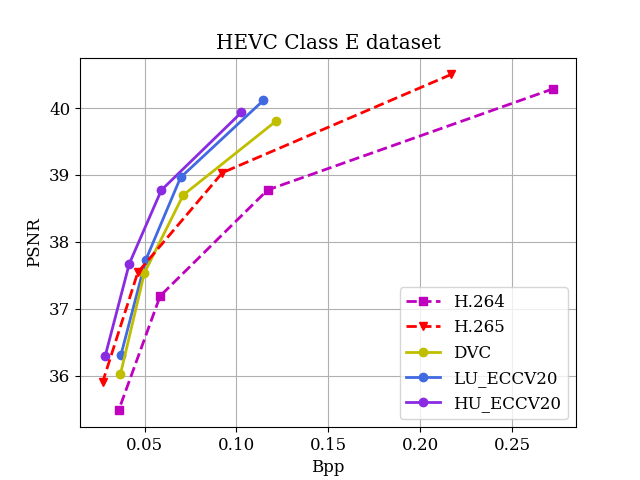
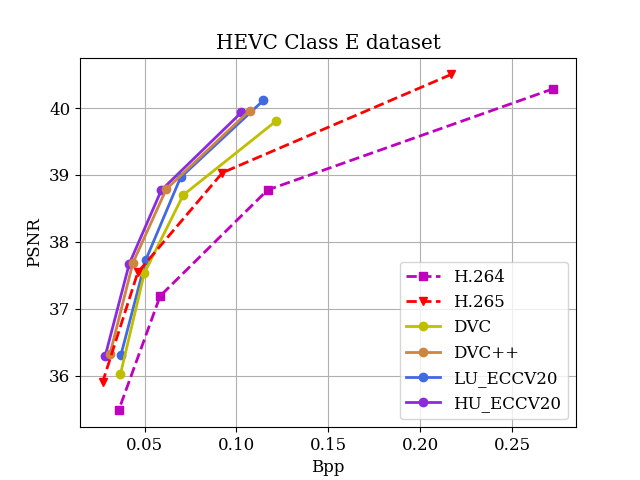
Update DVC++

diff --git a/Benchmark/draw_HEVC.py b/Benchmark/draw_HEVC.py
@@ -33,6 +33,10 @@ def drawhevc(hclass):
         psnr = [31.82619106, 33.0220837, 34.10751308, 35.10115456]
         DVC, = plt.plot(bpp, psnr, "y-o", linewidth=LineWidth, label='DVC')
 
+        bpp = [0.2824179, 0.15401706, 0.09166346, 0.06412788]
+        psnr = [35.32781542, 34.2566437, 33.20279178, 32.05932868]
+        DVCp, = plt.plot(bpp, psnr, "y-o", color="peru", linewidth=LineWidth, label='DVC++')
+
         bpp = [0.569167464, 0.219282161, 0.110183846, 0.065360897]
         psnr = [35.79301018, 34.03927013, 32.59008599, 31.1074001]
         msssim = [0.977265628, 0.967603596, 0.957326897, 0.94278379]
@@ -60,6 +64,10 @@ def drawhevc(hclass):
         bpp = [0.133924025, 0.19340295, 0.272746925, 0.4122508326]
         psnr = [28.767909, 29.95094243, 31.25051302, 32.51022528]
         DVC, = plt.plot(bpp, psnr, "y-o", linewidth=LineWidth, label='DVC')
+
+        bpp = [0.4111753326,  0.2770532, 0.185561475, 0.12688355]
+        psnr = [33.89443968, 32.16821025, 30.68711723, 29.37904568]
+        DVCp, = plt.plot(bpp, psnr, "y-o", color="peru", linewidth=LineWidth, label='DVC++')
 
         bpp = [0.576088116, 0.328202857, 0.193107239, 0.116934184]
         psnr = [34.63515097, 32.32511581, 30.15303183, 28.10807277]
@@ -90,6 +98,10 @@ def drawhevc(hclass):
         psnr = [28.41229473, 29.72853673, 31.1727661, 32.53451213]
         DVC, = plt.plot(bpp, psnr, "y-o", linewidth=LineWidth, label='DVC')
 
+        bpp = [0.4087568561,0.281171025, 0.199286125,0.13588435]
+        psnr = [33.87303353,31.87365235, 30.47633143,29.02572843]
+        DVCp, = plt.plot(bpp, psnr, "y-o", color="peru", linewidth=LineWidth, label='DVC++')
+
         bpp = [0.62866645, 0.369079861, 0.216769748, 0.130388726]
         psnr = [34.8324324, 32.26764653, 29.94494703, 27.82689033]
         msssim = [0.987974466, 0.980878777, 0.969883378, 0.952591233]
@@ -115,6 +127,10 @@ def drawhevc(hclass):
         psnr = [36.020002, 37.53390843, 38.70012267, 39.80463083]
         DVC, = plt.plot(bpp, psnr, "y-o", linewidth=LineWidth, label='DVC')
 
+        bpp = [0.1071702, 0.06180936667, 0.04365763333, 0.03117206667]
+        psnr = [39.96223793, 38.78827227, 37.68675003, 36.3244915]
+        DVCp, = plt.plot(bpp, psnr, "y-o", color="peru", linewidth=LineWidth, label='DVC++')
+
         bpp = [0.272495739, 0.116933239, 0.058484612, 0.035880386]
         psnr = [40.28897112, 38.7756175, 37.19223474, 35.48255472]
         msssim = [0.988984555, 0.986157917, 0.982596303, 0.977072748]
@@ -132,9 +148,9 @@ def drawhevc(hclass):
     if not os.path.exists(prefix):
         os.makedirs(prefix)    
     if hclass != 'E':
-        plt.legend(handles=[h264, h265, DVC, RY, LU, RaFC], loc=4)
+        plt.legend(handles=[h264, h265, DVC, DVCp, RY, LU, RaFC], loc=4)
     else:
-        plt.legend(handles=[h264, h265, DVC, LU, RaFC], loc=4)
+        plt.legend(handles=[h264, h265, DVC, DVCp, LU, RaFC], loc=4)
 
     plt.grid()
     plt.xlabel('Bpp')
@@ -164,6 +180,10 @@ def drawhevc(hclass):
         msssim = [0.94666318, 0.95921518, 0.96812108, 0.97383252]
         bpp = [0.07658514, 0.11616374, 0.16643274, 0.2939271]
         DVC, = plt.plot(bpp, msssim, "y-p", linewidth=LineWidth, label='DVC')
+
+        bpp = [0.2824179, 0.15401706, 0.09166346, 0.06412788]
+        msssim = [0.97436334, 0.96841286, 0.960519, 0.94919218]
+        DVCp, = plt.plot(bpp, msssim, "y-o", color="peru", linewidth=LineWidth, label='DVC++')
 
         bpp = [0.569167464, 0.219282161, 0.110183846, 0.065360897]
         psnr = [35.79301018, 34.03927013, 32.59008599, 31.1074001]
@@ -197,6 +217,10 @@ def drawhevc(hclass):
         msssim = [0.9523096, 0.96620995, 0.9763428823, 0.981115925]
         DVC, = plt.plot(bpp, msssim, "y-o", linewidth=LineWidth, label='DVC')
 
+        bpp = [0.4111753326,  0.2770532, 0.185561475, 0.12688355]
+        msssim = [0.9837059, 0.97858455, 0.96894595, 0.955701925]
+        DVCp, = plt.plot(bpp, msssim, "y-o", color="peru", linewidth=LineWidth, label='DVC++')
+
         bpp = [0.576088116, 0.328202857, 0.193107239, 0.116934184]
         psnr = [34.63515097, 32.32511581, 30.15303183, 28.10807277]
         msssim = [0.983930296, 0.975657708, 0.963020551, 0.943658353]
@@ -227,6 +251,10 @@ def drawhevc(hclass):
         msssim = [0.95808245, 0.971744025, 0.981360625, 0.9863982]
         DVC, = plt.plot(bpp, msssim, "y-o", linewidth=LineWidth, label='DVC')
 
+        bpp = [0.4087568561,0.281171025, 0.199286125,0.13588435]
+        msssim = [0.98832555, 0.982999975, 0.974272125, 0.961972025]
+        DVCp, = plt.plot(bpp, msssim, "y-o", color="peru", linewidth=LineWidth, label='DVC++')
+
         bpp = [0.62866645, 0.369079861, 0.216769748, 0.130388726]
         psnr = [34.8324324, 32.26764653, 29.94494703, 27.82689033]
         msssim = [0.987974466, 0.980878777, 0.969883378, 0.952591233]
@@ -253,6 +281,10 @@ def drawhevc(hclass):
         msssim = [0.9768797, 0.9829584333, 0.9865011667, 0.9887121667]
         DVC, = plt.plot(bpp, msssim, "y-o", linewidth=LineWidth, label='DVC')
 
+        bpp = [0.1071702, 0.06180936667, 0.04365763333, 0.03117206667]
+        msssim = [0.9886938667, 0.9864564667, 0.9832413333, 0.9778337]
+        DVCp, = plt.plot(bpp, msssim, "y-o", color="peru", linewidth=LineWidth, label='DVC++')
+
         bpp = [0.272495739, 0.116933239, 0.058484612, 0.035880386]
         psnr = [40.28897112, 38.7756175, 37.19223474, 35.48255472]
         msssim = [0.988984555, 0.986157917, 0.982596303, 0.977072748]
@@ -268,9 +300,9 @@ def drawhevc(hclass):
         
     savepathmsssim = prefix + '/' + 'HEVCClass_' + hclass + '_msssim'# + '.eps'
     if hclass != 'E':
-        plt.legend(handles=[h264, h265, DVC, RY, LU, RaFC], loc=4)
+        plt.legend(handles=[h264, h265, DVC, DVCp, RY, LU, RaFC], loc=4)
     else:
-        plt.legend(handles=[h264, h265, DVC, LU, RaFC], loc=4)
+        plt.legend(handles=[h264, h265, DVC, DVCp, LU, RaFC], loc=4)
 
     plt.grid()
     plt.xlabel('Bpp')

diff --git a/Benchmark/draw_uvg.py b/Benchmark/draw_uvg.py
@@ -43,6 +43,9 @@ iccv, = plt.plot(bpp, psnr, "c-*", linewidth=LineWidth, label='AD_ICCV19')
 bpp, psnr, msssim = [0.185334726, 0.108594607, 0.076628071, 0.06013501], [37.69306179, 36.68785979, 35.52100014, 34.54747739], [0.971436012, 0.96574275, 0.957191524, 0.949676821]
 DVC, = plt.plot(bpp, psnr, "y-o", linewidth=LineWidth, label='DVC')
 
+bpp, psnr, msssim = [0.1580652024, 0.09510494048, 0.06334845238, 0.05001147619], [37.83633036, 36.77129217, 35.7142323, 35.03949596], [0.971793119, 0.9658603452, 0.9588654881, 0.9534102738]
+DVCp, = plt.plot(bpp, psnr, "y-o", color="peru", linewidth=LineWidth, label='DVC++')
+
 # Ours default
 bpp, psnr, msssim = [0.360398059, 0.148765645, 0.076027148, 0.044918456], [38.17135327, 36.64284159, 35.23609537, 33.81775541], [0.978673172, 0.967889817, 0.95755343, 0.945528742]
 h264, = plt.plot(bpp, psnr, "m--s", linewidth=LineWidth, label='H.264')
@@ -54,7 +57,7 @@ savepathpsnr = prefix + '/UVG_psnr'
 print(prefix)
 if not os.path.exists(prefix):
     os.makedirs(prefix)
-plt.legend(handles=[h264, h265, DVC, eccv, iccv, EA, LU, rafc], loc=4)
+plt.legend(handles=[h264, h265, DVC, DVCp, eccv, iccv, EA, LU, rafc], loc=4)
 plt.grid()
 plt.xlabel('Bpp')
 plt.ylabel('PSNR')
@@ -94,6 +97,8 @@ iccv, = plt.plot(bpp, msssim, "c-*", linewidth=LineWidth, label='AD_ICCV19')
 bpp, psnr, msssim = [0.185334726, 0.108594607, 0.076628071, 0.06013501], [37.69306179, 36.68785979, 35.52100014, 34.54747739], [0.971436012, 0.96574275, 0.957191524, 0.949676821]
 DVC, = plt.plot(bpp, msssim, "y-o", linewidth=LineWidth, label='DVC')
 
+bpp, psnr, msssim = [0.1580652024, 0.09510494048, 0.06334845238, 0.05001147619], [37.83633036, 36.77129217, 35.7142323, 35.03949596], [0.971793119, 0.9658603452, 0.9588654881, 0.9534102738]
+DVCp, = plt.plot(bpp, msssim, "y-o", color="peru", linewidth=LineWidth, label='DVC++')
 
 bpp, msssim = [0.25601, 0.18540, 0.11757, 0.06162, 0.04352, 0.03561], [0.97627, 0.97311, 0.96770, 0.95592, 0.94839, 0.94459]
 ha_iccv, = plt.plot(bpp, msssim, "g-o", color="lime", linewidth=LineWidth, label='AH_ICCV19')
@@ -106,7 +111,7 @@ h265, = plt.plot(bpp, msssim, "r--v", linewidth=LineWidth, label='H.265')
 
 
 savepathmsssim = prefix + '/' + 'UVG_msssim'# + '.eps'
-plt.legend(handles=[h264, h265, DVC, eccv, ha_iccv, iccv, EA, LU, rafc], loc=4)
+plt.legend(handles=[h264, h265, DVC, DVCp, eccv, ha_iccv, iccv, EA, LU, rafc], loc=4)
 plt.grid()
 plt.xlabel('Bpp')
 plt.ylabel('MS-SSIM')

diff --git a/Benchmark/README.md b/Benchmark/README.md
@@ -4,6 +4,7 @@
 ## Methods
 - <font color="#0343df">CW_ECCV18</font> : [Video Compression through Image Interpolation](https://arxiv.org/abs/1804.06919)
 - <font color="#c2bd1c">DVC</font> : [DVC: An End-to-end Deep Video Compression Framework](https://arxiv.org/abs/1812.00101)
+- <font color="#CD853F">DVC++</font> : [An End-to-End Learning Framework for Video Compression](https://ieeexplore.ieee.org/document/9072487)
 - <font color="#00bfbf">AD_ICCV19</font> : [Neural Inter-Frame Compression for Video Coding](https://openaccess.thecvf.com/content_ICCV_2019/papers/Djelouah_Neural_Inter-Frame_Compression_for_Video_Coding_ICCV_2019_paper.pdf)
 - <font color="#00FF00">AH_ICCV19</font> : [Video CompressionWith Rate-Distortion Autoencoders](https://arxiv.org/abs/1908.05717v2)
 - <font color="#008000">EA_CVPR20</font> : [Scale-space Flow for End-to-end Optimized Video Compression](https://openaccess.thecvf.com/content_CVPR_2020/papers/Agustsson_Scale-Space_Flow_for_End-to-End_Optimized_Video_Compression_CVPR_2020_paper.pdf)
@@ -37,6 +38,21 @@
 ## VTL dataset
 <!-- ![](VTLresults/VTL_psnr.png)![](VTLresults/VTL_msssim.png) -->
 ![](VTLresults/VTL.png)
+
+## BDBR Results
+
+BDBR results (%) when compared with H.264. Negative values in BDBR indicate bit-rate savings.
+
+| Datasets             | H.265  | DVC    | DVC++  | AD_ICCV19 | RY_CVPR20 | EA_CVPR20 | LU_ECCV20 | HU_ECCV20 |
+|:-----------------    | :----: | :----: | :----: | :-------: | :-------: | :-------: | :-------: | :-------: |
+| HEVC Class A Dataset | -14.75 | -24.53 |   -    |           |           |           |           | -32.32    |
+| HEVC Class B Dataset | -21.95 | -18.18 | -35.75 |           |  -28.94   |           |  -33.55   | -33.49    |
+| HEVC Class C Dataset | -14.48 |  1.60  | -14.62 |           |  -4.83    |           |  -17.70   | -14.30    |
+| HEVC Class D Dataset | -12.40 | -1.57  | -18.69 |           |  -21.47   |           |  -19.35   | -15.13    |
+| HEVC Class E Dataset | -30.81 | -26.91 | -42.24 |           |           |           |  -36.85   | -44.60    |
+| UVG Dataset          | -26.07 | -19.39 | -39.91 |  -47.39   |           |  -32.40   |  -30.52   | -35.76    |
+| MCL Dataset          | -23.86 | -14.51 |   -    |  -8.89    |           |  -24.74   |  -20.62   | -35.01    |
+| VTL Dataset          | -12.31 | -21.93 |   -    |  -12.25   |           |           |  -27.06   | -30.04    |
 
 
 ## Setting of H.264 and H.265
